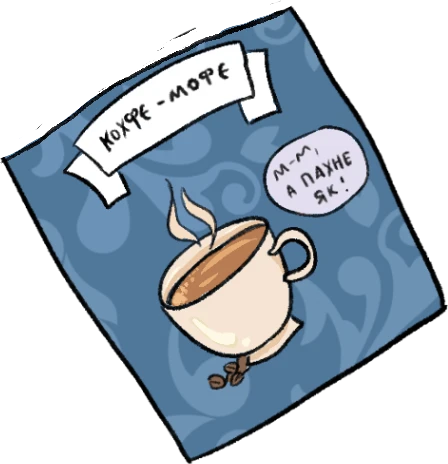
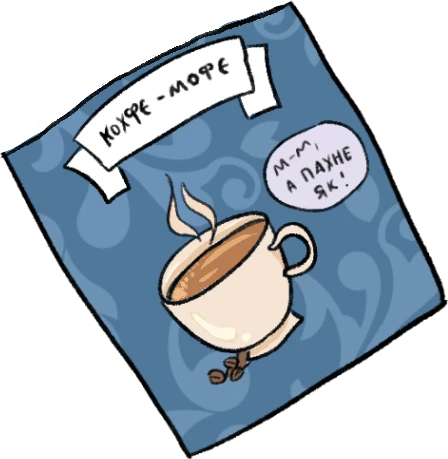
Маккохфе: оновлений пакетик (stick3), пара аморфними клубами без обрізання зверху
Клуби пари малюються заливкою зі змінною шириною, рухаються вгору й тануть всередині сцени.
Пара тепер видна близько трьох секунд, перш ніж каву «п'ють».

diff --git a/src/components/Coffee.tsx b/src/components/Coffee.tsx
@@ -25,7 +25,7 @@ type Phase = 'brew' | 'sip' | 'empty' | 'spin' | 'spun' | 'flip' | 'bottom' | 's
 /** Само збігається з тривалістю анімацій у styles.css. */
 const BREW_MS = 6800;
 const AUTO: Partial<Record<Phase, [number, Phase]>> = {
-  sip: [4400, 'empty'],
+  sip: [5400, 'empty'],
   spin: [1400, 'spun'],
   flip: [1000, 'bottom'],
   shake: [1250, 'read'],
@@ -121,6 +121,33 @@ const CUP_PAD = 24;
 /** Центр дна чашки в рамці. Нижній край чашки сидить на 4 px від низу. */
 const CUP_AT = { x: CUP_BOX.w / 2, y: CUP_BOX.h - CUP_PAD - (1605 - CUP.cy) };
 
+/**
+ * Клуб пари: вузький знизу й зверху, посередині ширший, тягнеться вгору хвилею. Ширина «пливе», тому форма
+ * виходить аморфною, а не лінією однієї товщини. Малюється суцільною заливкою, а не обводкою.
+ */
+function steamWisp(x: number, base: number, height: number, sway: number, width: number, phase: number) {
+  const steps = 32;
+  const left: string[] = [];
+  const right: string[] = [];
+  for (let i = 0; i <= steps; i++) {
+    const t = i / steps;
+    const cx = x + Math.sin(t * 6.6 + phase) * sway * (0.25 + t * 0.9);
+    const taper = Math.pow(Math.sin(Math.PI * Math.min(1, 0.06 + t * 0.9)), 0.75);
+    const w = Math.max(1.5, width * taper * (1 + 0.3 * Math.sin(t * 8.5 + phase * 1.7)) * (1 - 0.3 * t));
+    const y = base - t * height;
+    left.push(`${(cx - w / 2).toFixed(1)} ${y.toFixed(1)}`);
+    right.push(`${(cx + w / 2).toFixed(1)} ${y.toFixed(1)}`);
+  }
+  return `M${left.join(' L')} L${right.reverse().join(' L')} Z`;
+}
+
+const STEAM = [
+  { d: steamWisp(40, 124, 100, 12, 38, 0.4), delay: 0, dur: 3.4 },
+  { d: steamWisp(84, 126, 114, 14, 48, 2.1), delay: 0.5, dur: 3.8 },
+  { d: steamWisp(122, 124, 94, 11, 36, 4.2), delay: 1, dur: 3.2 },
+  { d: steamWisp(62, 120, 70, 9, 30, 5.4), delay: 1.5, dur: 3 },
+];
+
 interface CupStageProps {
   phase: Phase;
   reading: CoffeeReading | null;
@@ -172,13 +199,13 @@ function CupStage({ phase, reading, lit }: CupStageProps) {
 
       <svg
         className="cf-steam"
-        viewBox="0 0 160 120"
-        style={{ left: pct(CUP_BOX.w / 2 - 125, CUP_BOX.w), top: pct(0, CUP_BOX.h), width: pct(250, CUP_BOX.w) }}
+        viewBox="0 0 160 130"
+        style={{ left: pct(CUP_BOX.w / 2 - 125, CUP_BOX.w), top: pct(36, CUP_BOX.h), width: pct(250, CUP_BOX.w) }}
         aria-hidden="true"
       >
-        <path pathLength="100" d="M38 116 C18 92 58 80 38 56 S52 22 42 6" style={{ strokeWidth: 24 }} />
-        <path pathLength="100" d="M80 116 C60 90 100 76 80 52 S94 18 84 2" style={{ strokeWidth: 30 }} />
-        <path pathLength="100" d="M122 116 C102 92 142 80 122 58 S136 26 126 10" style={{ strokeWidth: 22 }} />
+        {STEAM.map((w) => (
+          <path key={w.d} d={w.d} style={{ animationDelay: `${w.delay}s`, animationDuration: `${w.dur}s` }} />
+        ))}
       </svg>
 
       <div

diff --git a/src/styles.css b/src/styles.css
@@ -717,14 +717,14 @@ button {
 }
 .cf[data-phase='sip'] .cf-full {
   opacity: 1;
-  animation: cf-fade 1.2s ease-in-out 2.5s forwards;
+  animation: cf-fade 1.2s ease-in-out 3.5s forwards;
 }
 .cf[data-phase='sip'] .cf-liquid {
   opacity: 1;
-  animation: cf-drain 1.5s ease-in 2.4s forwards;
+  animation: cf-drain 1.5s ease-in 3.4s forwards;
 }
 .cf[data-phase='sip'] .cf-front {
-  animation: cf-sip 1.7s ease-in-out 2.2s;
+  animation: cf-sip 1.7s ease-in-out 3.2s;
 }
 @keyframes cf-fade { to { opacity: 0; } }
 @keyframes cf-drain { to { opacity: 0; transform: translateY(45%) scale(0.7, 0.2); } }
@@ -734,27 +734,26 @@ button {
 }
 
 .cf-steam {
-  fill: none;
-  stroke: #7a5b4a;
-  stroke-linecap: round;
+  overflow: visible;
   opacity: 0;
 }
 .cf[data-phase='sip'] .cf-steam {
   opacity: 1;
-  animation: cf-steam-out 0.6s ease-in 2.2s forwards;
+  animation: cf-steam-out 0.6s ease-in 3.2s forwards;
 }
+/* аморфні напівпрозорі клуби: наростають знизу, повільно піднімаються, розтягуються й тануть, не доходячи до краю сцени */
 .cf-steam path {
-  stroke-dasharray: 100;
-  animation: cf-wisp 3s ease-in-out infinite backwards;
+  fill: #7a5b4a;
+  opacity: 0;
+  transform-box: fill-box;
+  transform-origin: 50% 100%;
+  animation: cf-rise 3.4s ease-in-out infinite backwards;
 }
-.cf-steam path:nth-child(2) { animation-delay: 0.7s; }
-.cf-steam path:nth-child(3) { animation-delay: 1.4s; }
-/* широкі напівпрозорі мазки: з'являються знизу, піднімаються й тануть */
-@keyframes cf-wisp {
-  0% { stroke-dashoffset: 100; opacity: 0; }
-  25% { opacity: 0.3; }
-  65% { stroke-dashoffset: 0; opacity: 0.26; }
-  100% { stroke-dashoffset: -100; opacity: 0; }
+@keyframes cf-rise {
+  0% { opacity: 0; transform: translateY(14%) scale(0.7, 0.55); }
+  24% { opacity: 0.32; }
+  60% { opacity: 0.26; transform: translateY(-4%) scale(1, 0.95) rotate(2deg); }
+  100% { opacity: 0; transform: translateY(-16%) scale(1.2, 1.08) rotate(-3deg); }
 }
 @keyframes cf-steam-out { to { opacity: 0; } }
 
